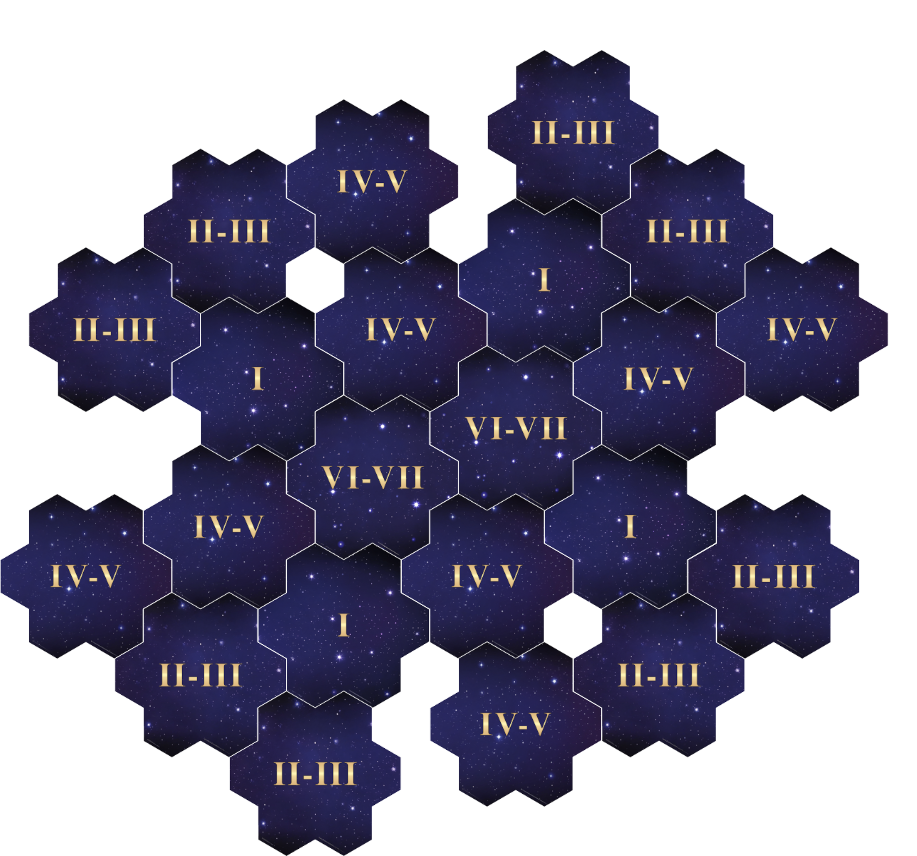
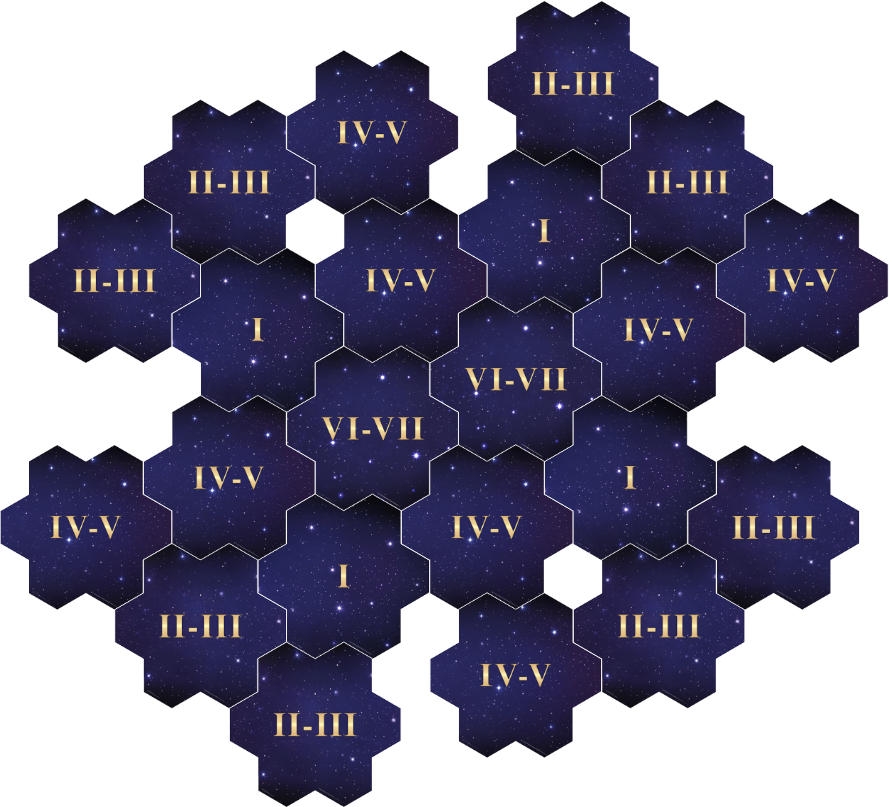
Fix layout and glyphs

diff --git a/draft-scenarios/clash/dragnarok.tex b/draft-scenarios/clash/dragnarok.tex
@@ -1,7 +1,7 @@
 % !TeX spellcheck = en_US
-\addscenariosection{1}{Clash Scenario}{Dragnarøk}{\images/dragon.png}
+\addscenariosection{1}{Clash Scenario}{Dragnarøk}{\images/dragnarok.png}
 
-\begin{multicols*}{2}
+\begin{multicols}{2}
 
 \textbf{Author:} Da
 
@@ -26,7 +26,7 @@ This Scenario plays out over 12 Rounds.
   \item A Few chosen \bronze\ Units.
 \end{itemize}
 
-\textbf{Town Buildings:} \bronze\ dwelling, Mage Guild \textit{Do not gain "When Built" -bonus}.
+\textbf{Town Buildings:} \bronze\ Dwelling, Mage Guild \textit{Do not gain ``When Built'' bonus}.
 
 \subsection*{\MakeUppercase{Map Setup}}
 Take the following Map Tiles and arrange them as shown in the Scenario map layout:
@@ -79,21 +79,17 @@ The player with the most Victory Points (VP) wins. In case of a tie, the player 
 \begin{itemize}
   \item Players may not recruit Secondary Heroes.
   \item Players may use their M\&M Deck while paying to defend their Town.
-  \item If a Hero stand on a removed Tile, move them to the nearest revealed Field and reduce their lowest initiative Unit's \svg{health} to 0. That player suffers -1 \svg{movement} this Round.
+  \item If a Hero stand on a removed Tile, move them to the nearest revealed Field and reduce their lowest initiative Unit's \svg{health_points} to 0. That player suffers -1 \svg{movement} this Round.
   \item Level VII Neutral Combats cannot be skipped.
-\columnbreak
-  \item \textbf{Dragon Utopia:} Gain 10 \svg{gold}, 1\svg{valuables} and Search(2)\svg{artifacts} twice.
+  \item \textbf{Dragon Utopia:} Gain 10 \svg{gold}, 1 \svg{valuables} and Search (2) \svg{artifact} twice.
   \item \textbf{Obelisk:} Roll 1 \svg{resource} or \svg{treasure}.
   \item When Tiles are removed, reduce any production provided by mines or settlements on that Tile.
-  \item Remove "Astrologers proclaim week of the magic tortoise from the Astrologers Proclaim Deck.
+  \item Remove ``Astrologers proclaim week of the Magic Tortoise'' from the Astrologers Proclaim Deck.
 \end{itemize}
-\end{multicols*}
-
-\vspace*{\fill}
+\end{multicols}
 
 \begin{center}
   \vspace*{\fill}
-  \includegraphics[width=1.0\linewidth]{\maps/dragnarok.png}
-  \captionof{figure}{\textbf{SCENARIO MAP LAYOUT}}
+  \includegraphics[width=\linewidth]{\maps/dragnarok.png}
   \vspace*{\fill}
 \end{center}
